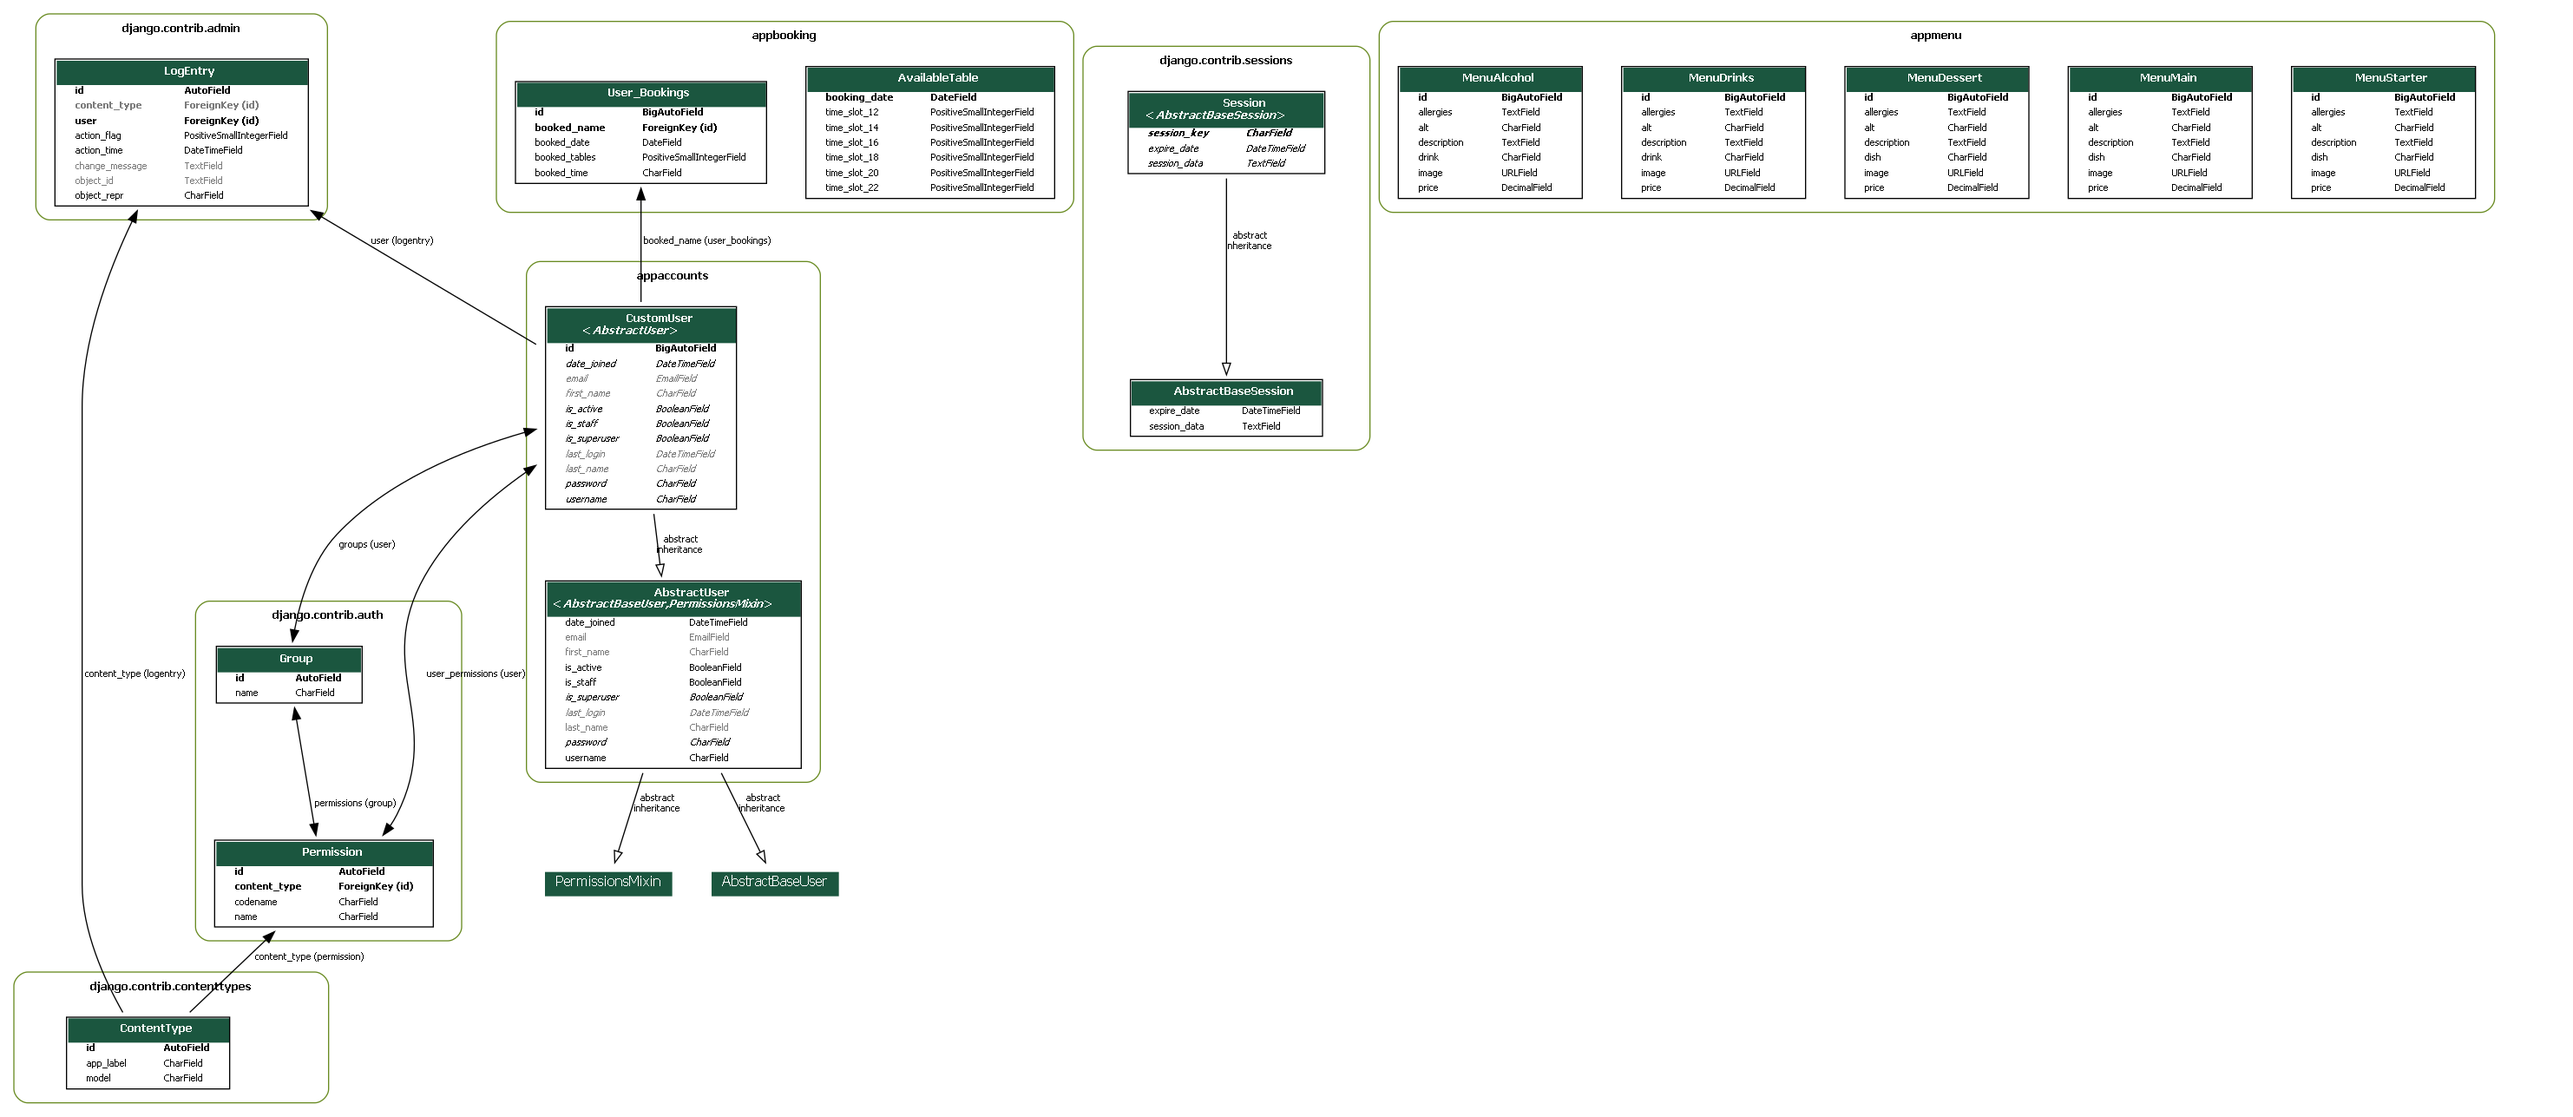
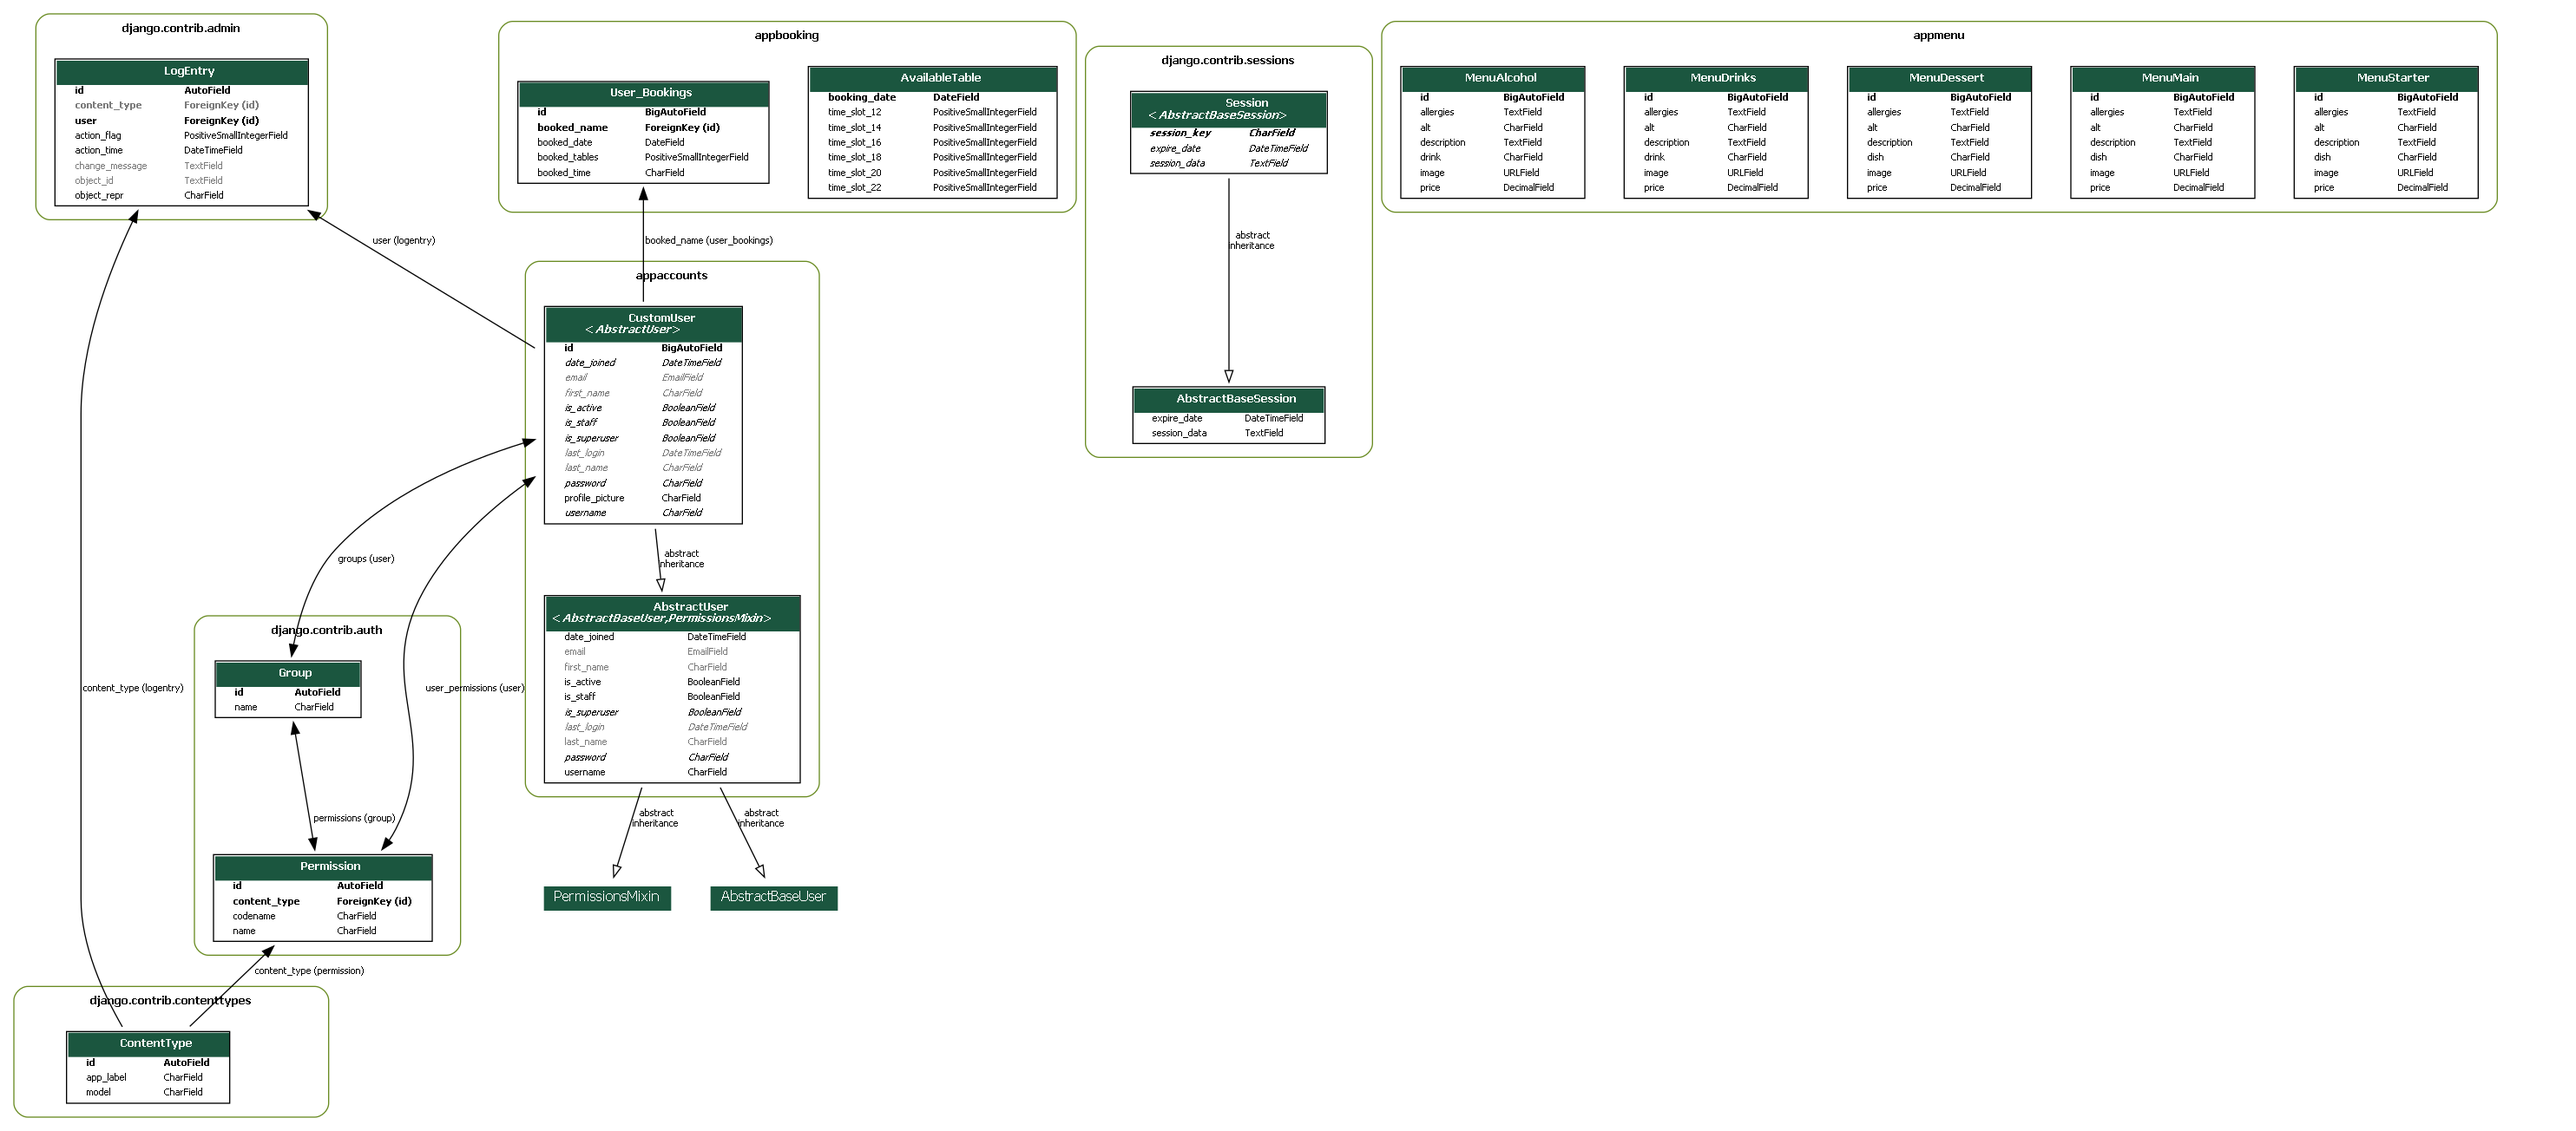
add menu to change user profile picture

diff --git a/templates/base.html b/templates/base.html
@@ -9,10 +9,10 @@
     <link rel="stylesheet" href="https://cdn.jsdelivr.net/npm/bootstrap-icons@1.8.3/font/bootstrap-icons.css">
     <!-- css from sass, compiled from Bootstrap 5.2 beta but can be overwritten with style.scss-->
     <link rel="stylesheet" href="{% static 'css/sass-style.css' %}">
-    <link rel="stylesheet" href='css/sass-style.css'>
+    <!-- <link rel="stylesheet" href='css/sass-style.css'> -->
     <!-- css -->
     <link rel="stylesheet" href="{% static 'css/style.css' %}">
-    <link rel="stylesheet" href='css/style.css'>
+    <!-- <link rel="stylesheet" href='css/style.css'> -->
     <title>{% block title %}Salt And Pepper Restaurant{% endblock title %}</title>
 </head>
 
@@ -25,23 +25,37 @@
                     <a class="navbar-brand" href="{% url 'home' %}">Salt And Pepper Restaurant</a>
                     <ul class="nav col-12 col-lg-auto me-lg-auto mb-2 justify-content-center
           mb-md-0">
+
                         {% if user.is_authenticated %}
                     </ul>
+                    {% if user.profile_picture %}
+                    <img src="{{user.profile_picture}}" alt="user profile picture" class="profile-picture text-end">
+                    {% endif %}
                     <div class="dropdown text-end">
                         <a href="#" class="d-block link-dark text-decoration-none dropdown-toggle" id="dropdownUser1"
                             data-bs-toggle="dropdown" aria-expanded="false">
                             {{ user.username }}'s Menu
                         </a>
                         <ul class="dropdown-menu text-small" aria-labelledby="dropdownUser1">
+                            <li><a class="dropdown-item" href="{% url 'logout' %}">Log Out</a></li>
                             <li><a class="dropdown-item" href="{% url 'password_change'%}">
                                     Change password</a></li>
-                            <li><a class="dropdown-item" href="{% url 'logout' %}">Log Out</a></li>
+                            <li><a class="dropdown-item" href="{% url 'home' %}">Home</a></li>
+                            {% if user.is_superuser %}
+                            <li><a class="dropdown-item" href='{% url "admin:index" %}'>Admin</a></li>
+                            {% endif %}
+                            <li><a class="dropdown-item" href="{% url 'user_settings' %}">Profile</a></li>
+                            <li><a class="dropdown-item" href="{% url 'menu' %}">Menu</a></li>
                             <li><a class="dropdown-item" href="{% url 'bookings' %}">Bookings</a></li>
                         </ul>
                     </div>
                     {% else %}
                     </ul>
                     <div class="text-end">
+                        <a href="{% url 'home' %}" class="btn btn-outline-dark me-2">
+                            Home</a>
+                        <a href="{% url 'menu' %}" class="btn btn-outline-dark me-2">
+                            Menu</a>
                         <a href="{% url 'login' %}" class="btn btn-outline-dark me-2">
                             Log In</a>
                         <a href="{% url 'signup' %}" class="btn btn-outline-dark">Sign Up</a>
@@ -61,7 +75,7 @@
     <!-- Bootstrap 5.2.0 beta  JavaScript Bundle with Popper -->
     <script src="{% static 'javascript/bootstrap_bundle_min.js' %}">
     </script>
-    <script src="{% static 'javascript/set_booking_marker.js' %}" type="module"></script>
+    <!-- <script src="{% static 'javascript/set_booking_marker.js' %}" type="module"></script> -->
 </body>
 
 </html>

diff --git a/templates/registration/user_settings.html b/templates/registration/user_settings.html
@@ -1,0 +1,77 @@
+<!-- home page, starting page when user langs on website, inherits from 'base.html' -->
+{% extends "base.html" %}
+
+{% block title %}User Settings{% endblock title %}
+
+{% block content %}
+{% load static %}
+<h2>Upload Your Profile Picture</h2>
+<p>Here you can upload a new profile picture or change your old one.</p>
+<ul>
+    <li>the image file has to be less than 2MB</li>
+    <li>the image will be scaled down to 150 pixel</li>
+    <li>you can crop the image before uploading it</li>
+</ul>
+
+<button id="upload_widget" class="btn btn-outline-dark p-2 m-2 ">
+    upload image files
+</button>
+<img src="https://res.cloudinary.com/diwuglogr/image/upload/v1656221691/salt_and_pepper/default-user-icon-8_jddbuo.jpg"
+    alt="new profile picture" id="check_new_profile" class="profile-picture">
+<form action="user_settings_profile/" method="post" class="p-2 m-2 d-inline-block">
+    {% csrf_token %}
+    <input type="hidden" name="new_profile_picture" id="picture_form" value="">
+    <input id="button_form" type="submit" value="Submit New Profile Picture" class="btn btn-primary" disabled
+        title="submit new profile picture" aria-label="submit new profile picture">
+</form>
+
+
+<!-- cloudinary upload widget -->
+<script src="https://widget.cloudinary.com/v2.0/global/all.js" type="text/javascript">
+</script>
+
+<!-- local upload instantiation -->
+<!-- <script src="upload_widget.js" type="text/javascript">
+</script> -->
+<script src="https://upload-widget.cloudinary.com/global/all.js" type="text/javascript">
+</script>
+<!-- <script>
+    const cloudName = "diwuglogr"; // replace with your own cloud name
+    const uploadPreset = "bjio1tzi"; // replace with your own upload preset
+    const myWidget = cloudinary.createUploadWidget({
+            cloudName: cloudName,
+            uploadPreset: uploadPreset,
+            cropping: true, //add a cropping step
+            // sources: [ "local", "url"], // restrict the upload sources to URL and local files
+            multiple: false, //restrict upload to a single file
+            folder: "salt_pepper_profile", //upload files to the specified folder
+            // clientAllowedFormats: ["images"], //restrict uploading to image files only
+            maxImageFileSize: 2000000, //restrict file size to less than 2MB
+            maxImageWidth: 150, //Scales the image down to a width of 150 pixels before uploading
+        },
+        (error, result) => {
+            if (!error && result && result.event === "success") {
+                console.log("Done! Here is the image info: ", result.info);
+                document
+                    .getElementById("picture_form")
+                    .setAttribute("value", result.info.secure_url);
+                document
+                    .getElementById("check_new_profile")
+                    .setAttribute("src", result.info.secure_url);
+                document
+                    .getElementById("button_form")
+                    .removeAttribute("disabled");
+            }
+        }
+    );
+
+    document.getElementById("upload_widget").addEventListener(
+        "click",
+        function () {
+            myWidget.open();
+        },
+        false
+    );
+</script> -->
+<script src="{% static 'javascript/profile_picture.js' %}"></script>
+{% endblock content %}

diff --git a/static/javascript/profile_picture.js b/static/javascript/profile_picture.js
@@ -1,0 +1,37 @@
+const cloudName = "diwuglogr"; // replace with your own cloud name
+const uploadPreset = "bjio1tzi"; // replace with your own upload preset
+const myWidget = cloudinary.createUploadWidget(
+  {
+    cloudName: cloudName,
+    uploadPreset: uploadPreset,
+    cropping: true, //add a cropping step
+    // sources: [ "local", "url"], // restrict the upload sources to URL and local files
+    multiple: false, //restrict upload to a single file
+    folder: "salt_pepper_profile", //upload files to the specified folder
+    // clientAllowedFormats: ["images"], //restrict uploading to image files only
+    maxImageFileSize: 2000000, //restrict file size to less than 2MB
+    maxImageWidth: 150, //Scales the image down to a width of 150 pixels before uploading
+  },
+  (error, result) => {
+    if (!error && result && result.event === "success") {
+      console.log("Done! Here is the image info: ", result.info);
+      document
+        .getElementById("picture_form")
+        .setAttribute("value", result.info.secure_url);
+      document
+        .getElementById("check_new_profile")
+        .setAttribute("src", result.info.secure_url);
+      document.getElementById("button_form").removeAttribute("disabled");
+    }
+  }
+);
+
+document.getElementById("upload_widget").addEventListener(
+  "click",
+  function () {
+    myWidget.open();
+  },
+  false
+);
+
+console.log("hello");

diff --git a/static/css/style.css b/static/css/style.css
@@ -14,6 +14,12 @@
     height: 170px;
 }
 
+.profile-picture {
+    height: 60px;
+    width: 60px;
+    border-radius: 50%;
+    margin: 5px;
+}
 
 @media only screen and (max-width: 768px) {
     .md-break {

diff --git a/django_project/settings.py b/django_project/settings.py
@@ -170,12 +170,12 @@ EMAIL_HOST_USER = "apikey"
 EMAIL_PORT = 587
 EMAIL_USE_TLS = True
 
-# ============= before deponing to heroku, py manage.py collectstatic =========================================
+# ============== before deponing to heroku, py manage.py collectstatic =========================================
 
 # comment this lines when deploying to heroku!!!!!!!!!!!!!!!!!!!!!!!!!!!!!!!!!!!!!!!!!!!!!!!!!!
-#STATICFILES_STORAGE = 'cloudinary_storage.storage.StaticHashedCloudinaryStorage' # use whitenoise because cloudinary is not working!!!
-#STATICFILES_DIRS = [os.path.join(BASE_DIR, 'static')] # use whitenoise because cloudinary is not working!!!
-#STATIC_ROOT = os.path.join(BASE_DIR, 'staticfiles') # use whitenoise because cloudinary is not working!!!
+STATICFILES_STORAGE = 'cloudinary_storage.storage.StaticHashedCloudinaryStorage' # use whitenoise because cloudinary is not working!!!
+STATICFILES_DIRS = [os.path.join(BASE_DIR, 'static')] # use whitenoise because cloudinary is not working!!!
+STATIC_ROOT = os.path.join(BASE_DIR, 'staticfiles') # use whitenoise because cloudinary is not working!!!
 
 # uncomment this line when deploying to heroku !!!!!!!!!!!!!!!!!!!!!!!!!!!!!!!!!!!!!!!!!!!!!!!!!!! whitenoise
-STATIC_ROOT = BASE_DIR / "static"
+#STATIC_ROOT = BASE_DIR / "static"

diff --git a/appaccounts/views.py b/appaccounts/views.py
@@ -1,7 +1,10 @@
 from django.urls import reverse_lazy
 from django.views.generic import CreateView
-
+from django.http import HttpResponse, HttpResponseRedirect
+from django.template import loader
 from .forms import CustomUserCreationForm
+from .models import CustomUser
+from django.urls import reverse
 
 
 # use Django’s generic CreateView
@@ -12,3 +15,21 @@ class SignUpView(CreateView):
     success_url = reverse_lazy('login')
     # template is named signup.html
     template_name = "registration/signup.html"
+
+def user_settings(request):
+    user_now = request.user
+    template = loader.get_template('registration/user_settings.html')       
+    user_settings = CustomUser.objects.filter(username=user_now).values()
+    context = {
+    'user_settings' :  user_settings,
+    }
+        
+    return HttpResponse(template.render(context, request))
+
+def user_settings_profile(request):
+    new_profile_picture = request.POST['new_profile_picture']
+    user_now = request.user
+    user_settings = CustomUser.objects.filter(username=user_now).values()
+    user_settings.update(profile_picture=new_profile_picture)
+    
+    return HttpResponseRedirect(reverse('user_settings'))

diff --git a/appaccounts/admin.py b/appaccounts/admin.py
@@ -13,9 +13,30 @@ class CustomUserAdmin(UserAdmin):
         "email",
         "username",
         "is_staff",
+        "profile_picture",
     ]
-    fieldsets = UserAdmin.fieldsets
+    # fieldsets = UserAdmin.fieldsets
+    fieldsets = (
+        (None, {
+            'fields': ('username', 'password')
+        }),
+        ('Personal info', {
+            'fields': ('first_name', 'last_name', 'email')
+        }),
+        ('Permissions', {
+            'fields': (
+                'is_active', 'is_staff', 'is_superuser',
+                'groups', 'user_permissions'
+                )
+        }),
+        ('Important dates', {
+            'fields': ('last_login', 'date_joined')
+        }),
+        ('Profile', {
+            'fields': ('profile_picture',)
+        })
+    )
+    
     add_fieldsets = UserAdmin.add_fieldsets
-
 
 admin.site.register(CustomUser, CustomUserAdmin)

diff --git a/appaccounts/migrations/0002_user_settings.py b/appaccounts/migrations/0002_user_settings.py
@@ -1,0 +1,23 @@
+# Generated by Django 4.0.5 on 2022-06-25 16:21
+
+from django.conf import settings
+from django.db import migrations, models
+import django.db.models.deletion
+
+
+class Migration(migrations.Migration):
+
+    dependencies = [
+        ('appaccounts', '0001_initial'),
+    ]
+
+    operations = [
+        migrations.CreateModel(
+            name='User_Settings',
+            fields=[
+                ('id', models.BigAutoField(auto_created=True, primary_key=True, serialize=False, verbose_name='ID')),
+                ('profile_picture', models.CharField(max_length=255)),
+                ('user_name', models.ForeignKey(on_delete=django.db.models.deletion.CASCADE, to=settings.AUTH_USER_MODEL)),
+            ],
+        ),
+    ]

diff --git a/appaccounts/migrations/0003_customuser_profile_picture_delete_user_settings.py b/appaccounts/migrations/0003_customuser_profile_picture_delete_user_settings.py
@@ -1,0 +1,22 @@
+# Generated by Django 4.0.5 on 2022-06-25 16:41
+
+from django.db import migrations, models
+
+
+class Migration(migrations.Migration):
+
+    dependencies = [
+        ('appaccounts', '0002_user_settings'),
+    ]
+
+    operations = [
+        migrations.AddField(
+            model_name='customuser',
+            name='profile_picture',
+            field=models.CharField(default='', max_length=255),
+            preserve_default=False,
+        ),
+        migrations.DeleteModel(
+            name='User_Settings',
+        ),
+    ]

diff --git a/appaccounts/models.py b/appaccounts/models.py
@@ -1,9 +1,19 @@
 from django.contrib.auth.models import AbstractUser
 from django.db import models
+from django.conf import settings
+# User = settings.AUTH_USER_MODEL
 
 
 class CustomUser(AbstractUser):
-    pass
+    profile_picture = models.CharField(max_length=255)
 
 def __str__(self):
     return self.username
+
+# class User_Settings(models.Model):  
+#     user_name = models.ForeignKey(User, on_delete=models.CASCADE)
+#     profile_picture = models.CharField(max_length=255)
+    
+# def __str__(self):
+#     return "%s" % (self.user_name)
+    

diff --git a/appaccounts/urls.py b/appaccounts/urls.py
@@ -1,6 +1,9 @@
 from django.urls import path
 from .views import SignUpView
+from . import views
 
 urlpatterns = [
     path("signup/", SignUpView.as_view(), name="signup"),
+    path("", views.user_settings, name="user_settings"),
+    path("user_settings_profile/", views.user_settings_profile, name="user_settings_profile"),
 ]
